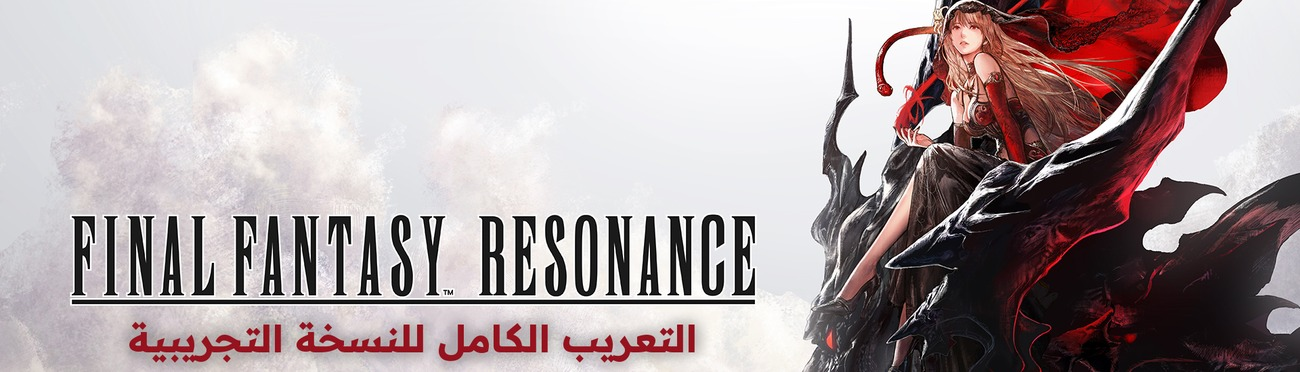
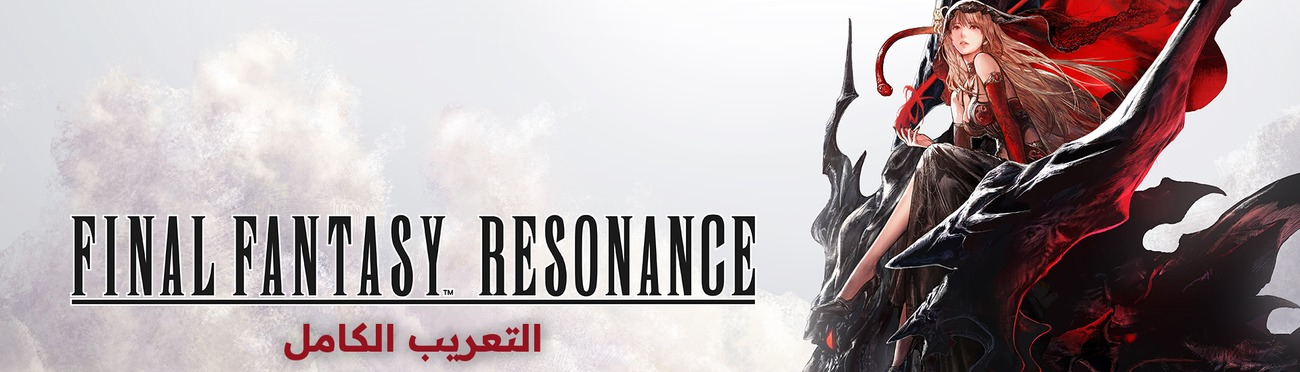
README: 1.0.4-beta, full game

Changed region(s): [[0.0923, 0.8575, 0.5538, 1.0]]

diff --git a/README.md b/README.md
@@ -1,14 +1,14 @@
-![FINAL FANTASY RESONANCE - التعريب الكامل للنسخة التجريبية](media/header_1300x372.jpg)
+![FINAL FANTASY RESONANCE - التعريب الكامل](media/header_1300x372.jpg)
 
 <div dir="rtl">
 
-# FINAL FANTASY RESONANCE (Demo) - التعريب الكامل للنسخة التجريبية
+# FINAL FANTASY RESONANCE - التعريب الكامل
 
-تعريب النسخة التجريبية من FINAL FANTASY RESONANCE على Steam: الفصل الأول كاملًا، والقصة والحوارات، والمهام الجانبية، وحوارات الرفاق، والقوائم، والأغراض، والمهارات، والشروحات ورسائل النظام، وصور الشروحات وشاشات النسخة التجريبية، مع خط Readex Pro. العربية لغة إضافية تظهر في قائمة لغات اللعبة باسم «العربية»، ولا تتغير الأصوات ولا اللغات الأخرى.
+تعريب كامل لـFINAL FANTASY RESONANCE على Steam: القصة كلها والحوارات، والمهام الجانبية، وحوارات الرفاق، والقوائم، والأغراض، والمهارات، والشروحات ورسائل النظام، وصور الشروحات وشارات المعركة، مع خط Readex Pro. العربية لغة إضافية تظهر في قائمة لغات اللعبة باسم «العربية»، ولا تتغير الأصوات ولا اللغات الأخرى.
 
 ## التحميل
 
-من صفحة [الإصدارات](../../releases/latest) حمّل ملف `FFResonance-Demo-Arabic-v1.0.3-beta.exe`.
+من صفحة [الإصدارات](../../releases/latest) حمّل ملف `FFResonance-Arabic-v1.0.4-beta.exe`.
 
 ## التثبيت
 
@@ -22,10 +22,10 @@
 
 ## تنبيه
 
-- صُمّم للنسخة التجريبية على Steam، إصدار البناء 24032336. بعد أي تحديث للعبة أو صدور النسخة الكاملة انتظر نسخة جديدة من التعريب.
-- بعض التعديلات مشتركة بين كل اللغات ما دام التعريب مثبّتًا: محاذاة بعض عناصر الواجهة وموضع سهم متابعة الحوار، وصور الشروحات وشاشات النسخة التجريبية في اللغة اليابانية، وشارات AMAZING وEXCELLENT وGOOD في اليابانية والإنجليزية.
+- صُمّم لإصدار Steam، رقم البناء 24250053. بعد أي تحديث للعبة انتظر نسخة جديدة من التعريب.
+- بعض التعديلات مشتركة بين كل اللغات ما دام التعريب مثبّتًا: محاذاة بعض عناصر الواجهة وموضع سهم متابعة الحوار، وصور الشروحات في اللغة اليابانية، وشارات AMAZING وEXCELLENT وGOOD في اليابانية والإنجليزية.
 - صور الشروحات التي هي لقطات من اللعبة تظهر بنسختها الإنجليزية.
-- هذا إصدار تجريبي؛ أخبرنا بأي نص غير مترجم أو خارج مكانه مع صورة في [Issues](../../issues).
+- هذا إصدار بيتا؛ أخبرنا بأي نص غير مترجم أو خارج مكانه مع صورة في [Issues](../../issues).
 
 ## شكر وتقدير
 
@@ -38,6 +38,6 @@
 
 ---
 
-Arabic localization of the FINAL FANTASY RESONANCE demo (Steam, build 24032336): the complete first chapter, menus, items, skills, tutorials and system messages, with the Readex Pro font. Arabic is added as an extra language; voices and the other languages are unchanged, and the game's own files are not modified. Download the installer from [Releases](../../releases/latest).
+Full Arabic localization of FINAL FANTASY RESONANCE (Steam, build 24250053): the whole story, side quests, party chats, menus, items, skills, tutorials and system messages, with the Readex Pro font. Arabic is added as an extra language; voices and the other languages are unchanged, and the game's own files are not modified. Download the installer from [Releases](../../releases/latest).
 
 This is a fan project, not affiliated with or endorsed by SQUARE ENIX. FINAL FANTASY is a registered trademark of Square Enix Holdings Co., Ltd.
